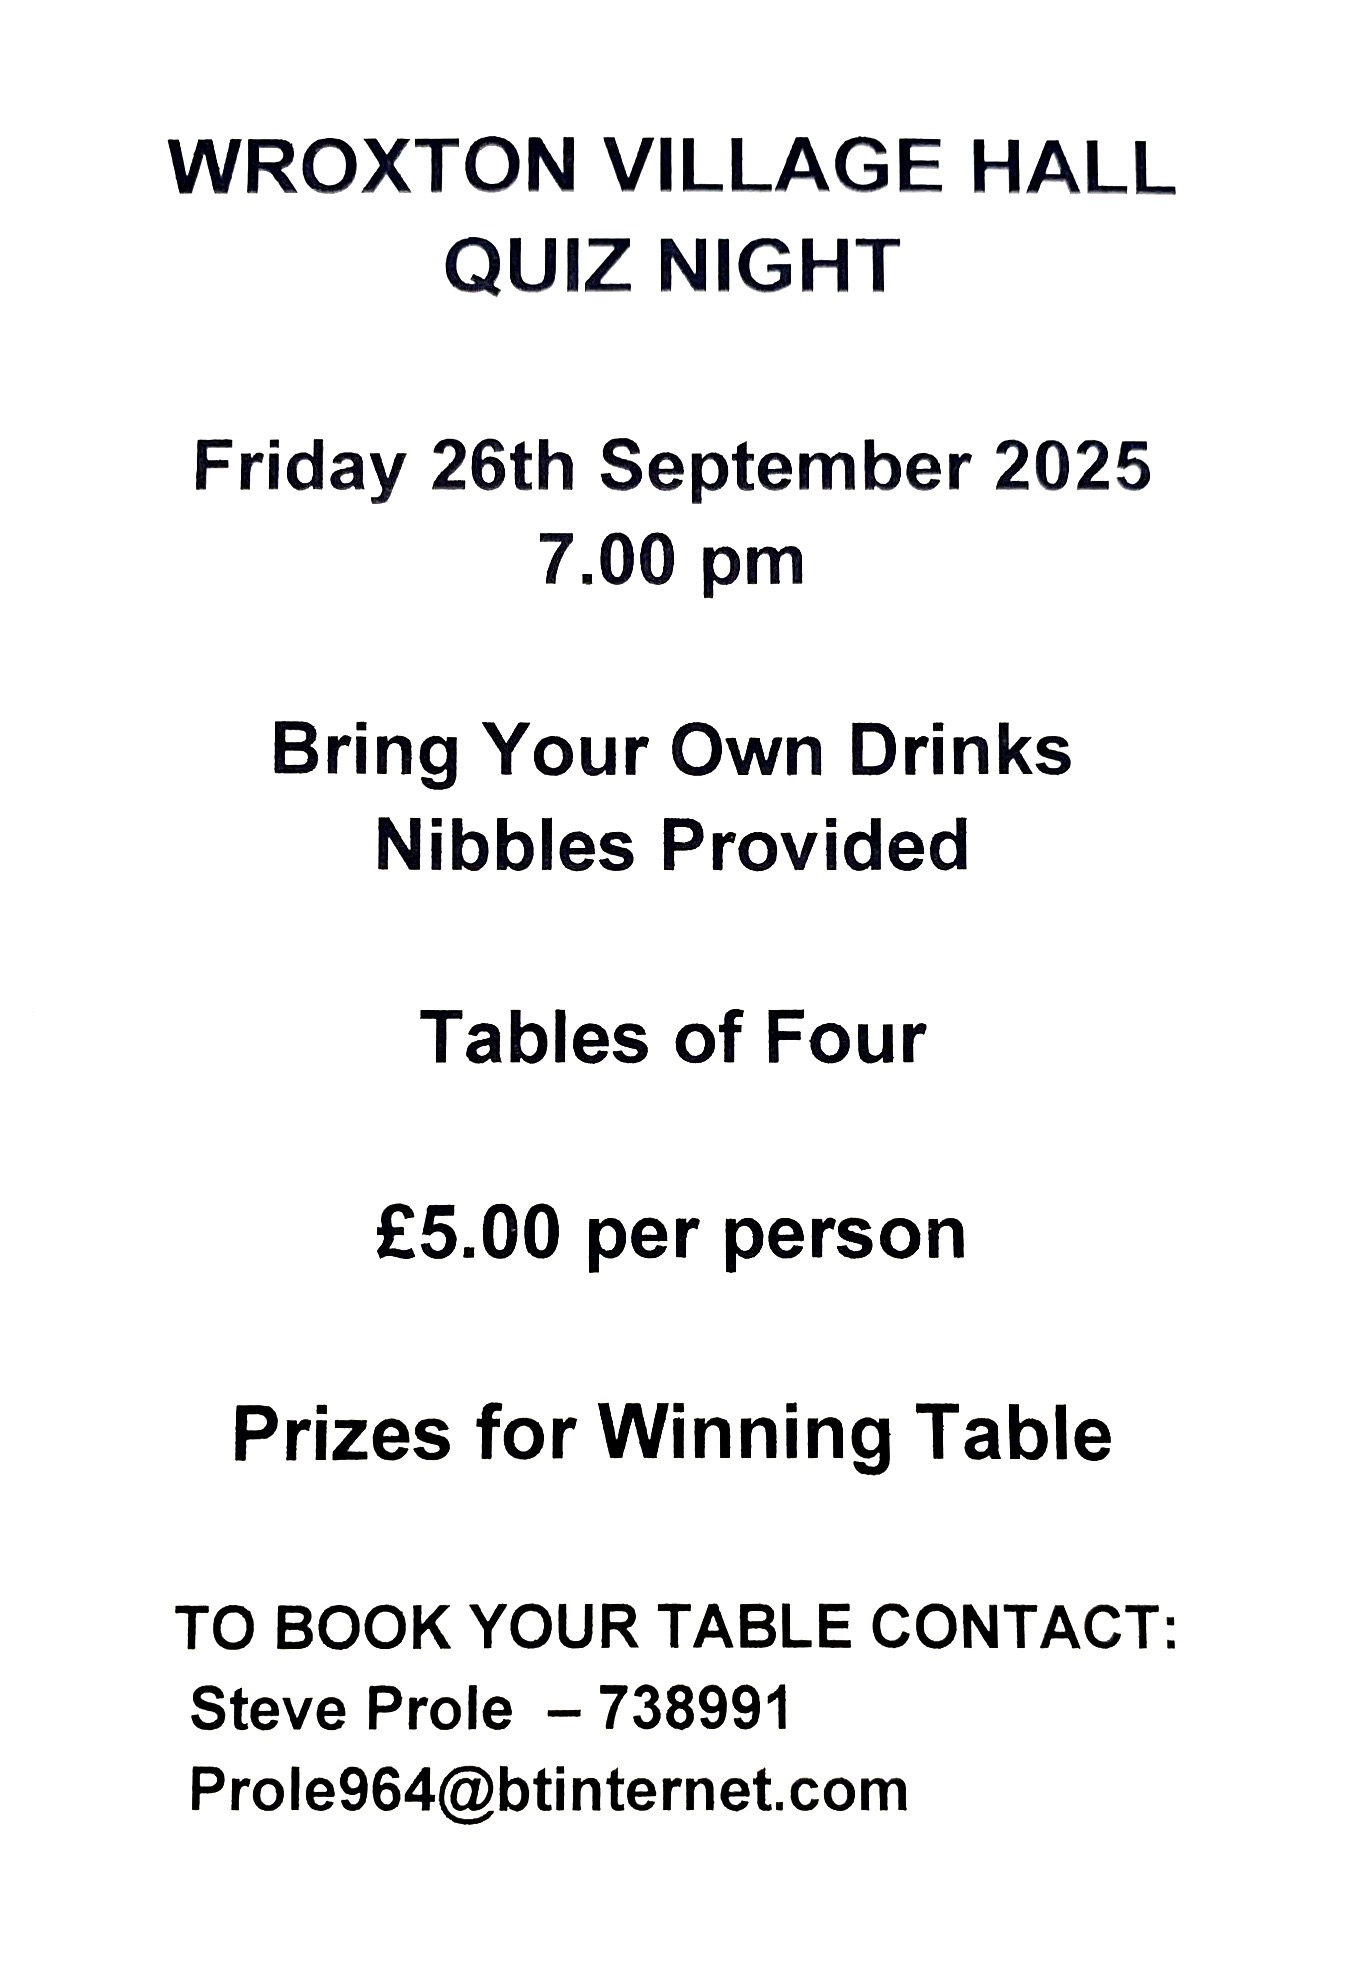
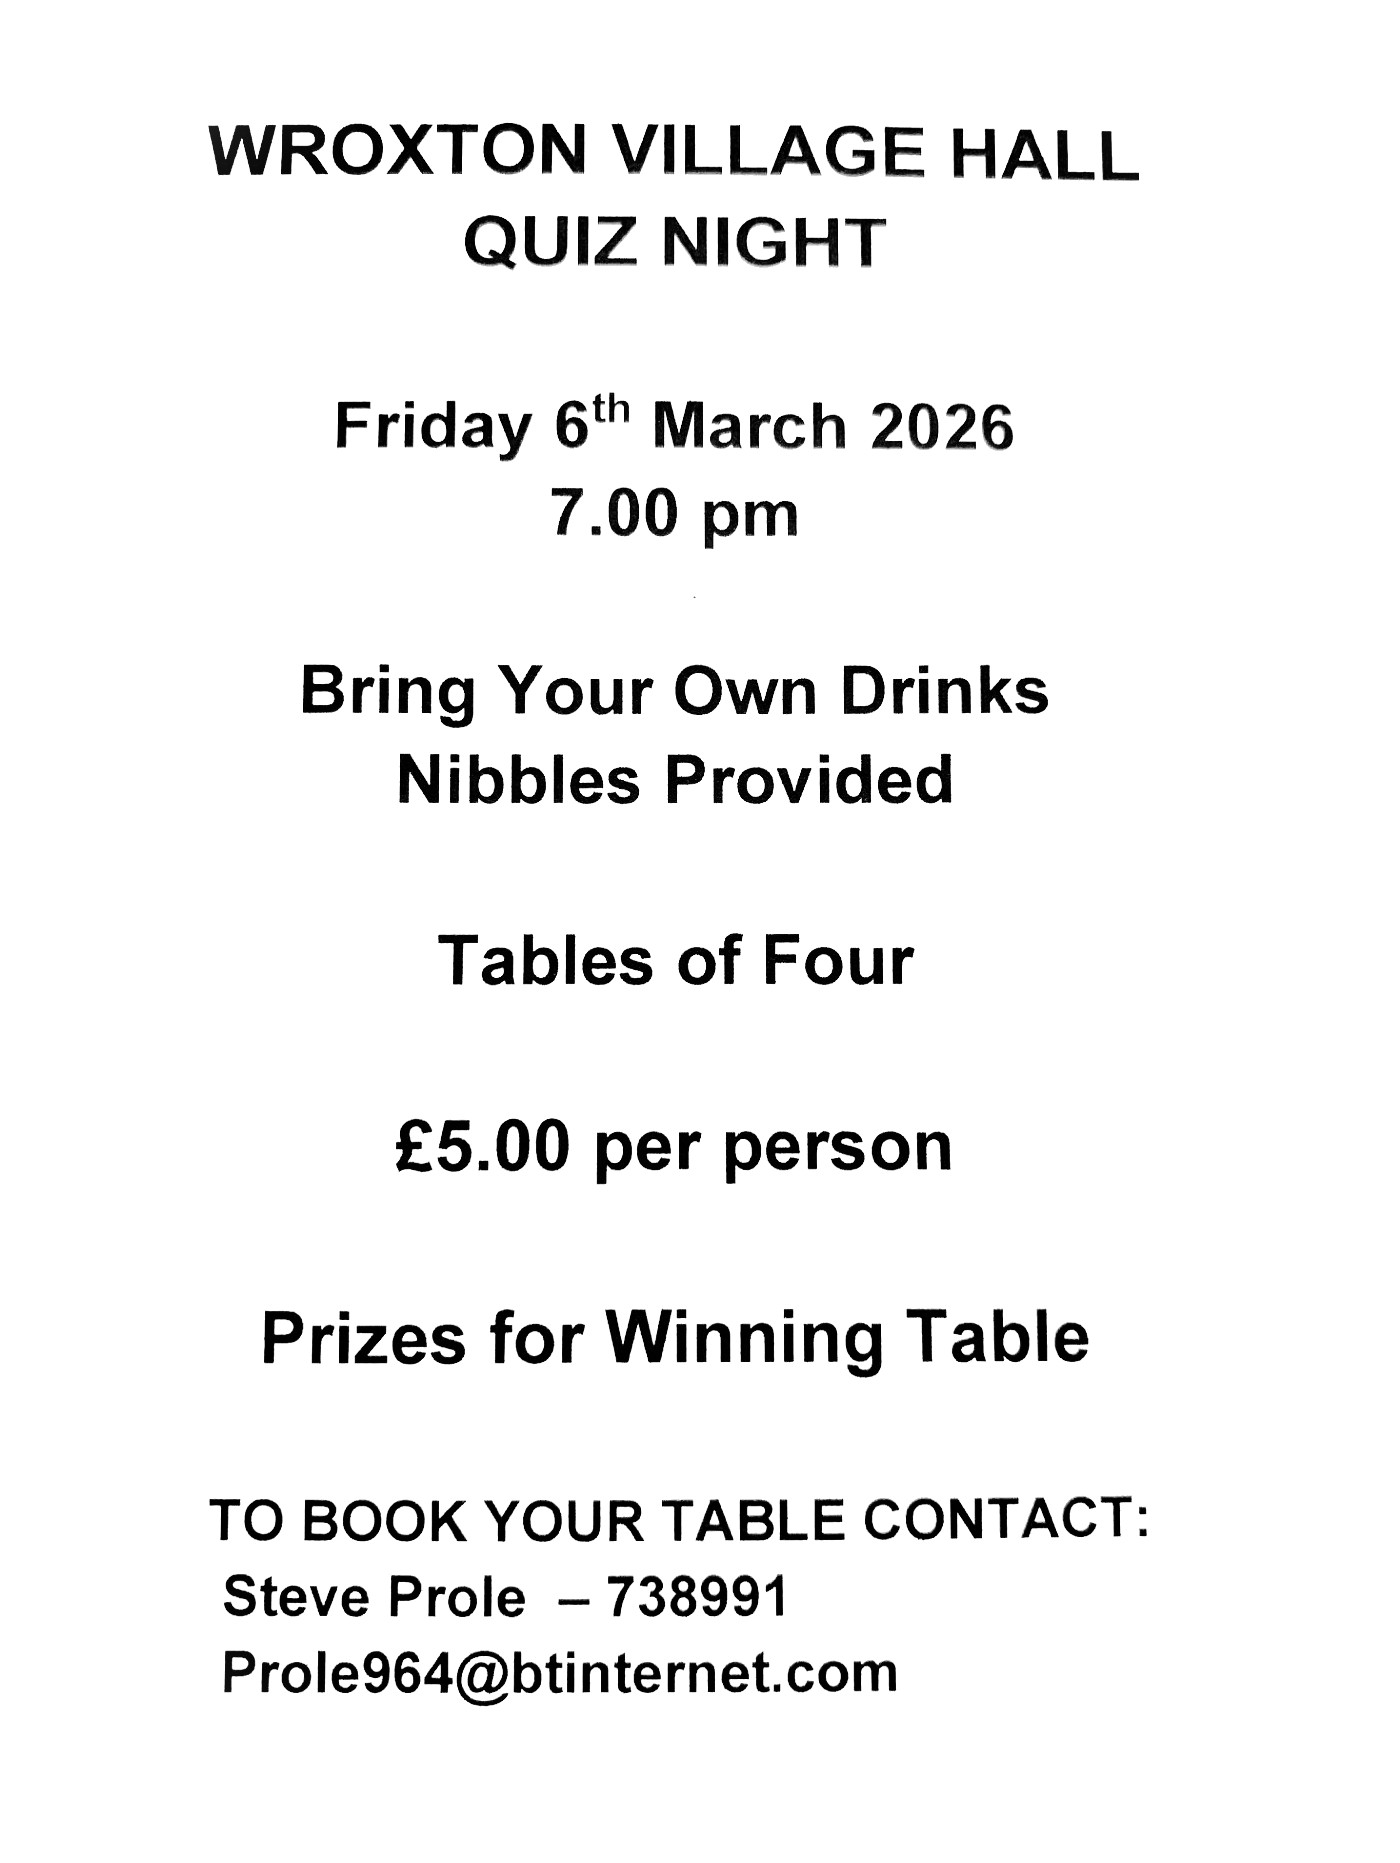
updates

diff --git a/whatson.html b/whatson.html
@@ -78,7 +78,20 @@
                 <div class="date">📅 Every Wednesday</div>
                 <div class="time">🕖 7:45pm – 9:15pm</div>
                 <div class="location">📍 Oxhill Village Hall (CV35 0QU)</div>
-                <div class="welcome">💪 Everyone is Welcome!</div>
+                <div class="welcome">🎼 Everyone is Welcome!</div>
+              </div>
+            </div>
+
+            <div class="event">
+              <img src="IMG_QuizNight.jpg" alt="quiz" class="event-image">
+            
+              <div class="event-info">
+                <h2>Wroxton Village Hall Quiz Night</h2>
+            
+                <div class="date">📅 Friday 6th March 2026</div>
+                <div class="time">🕖 7:00pm</div>
+                <div class="location">📍 Wroxton Village Hall</div>
+                <div class="welcome">🎟 Everyone is Welcome!</div>
               </div>
             </div>
 

diff --git a/CSS_Whats_On.css b/CSS_Whats_On.css
@@ -180,7 +180,7 @@ p {
   text-align: center;
 }
 
-@media (max-width: 768px) {
+@media (max-width: 1200px) {
   h1 {
       font-size: 2em;
   }
